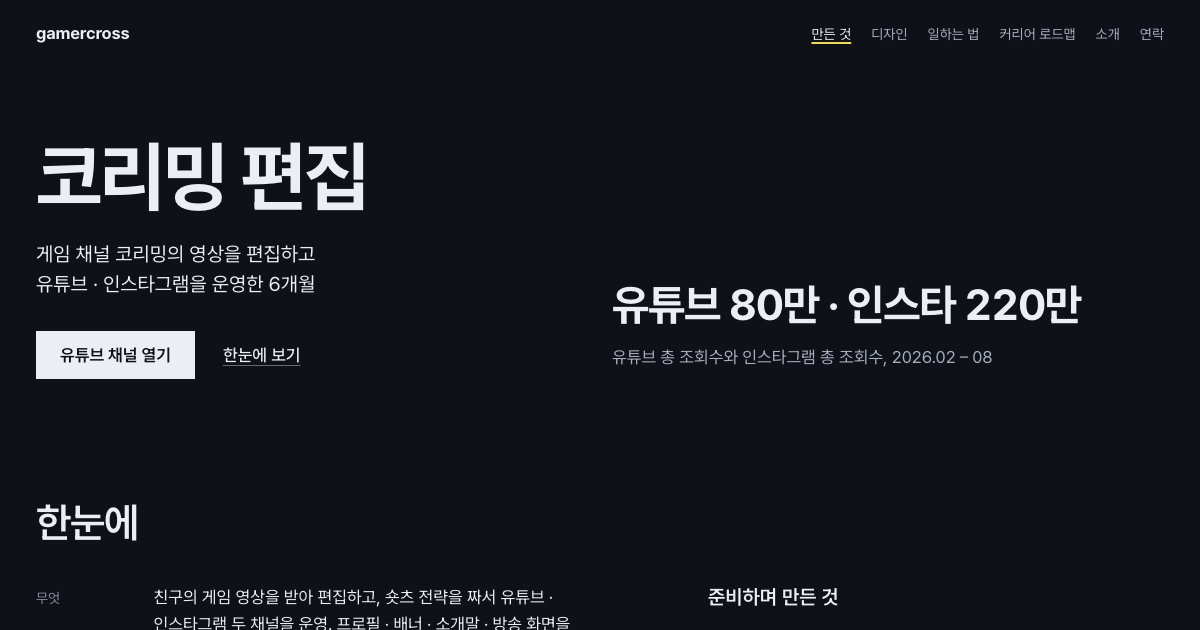
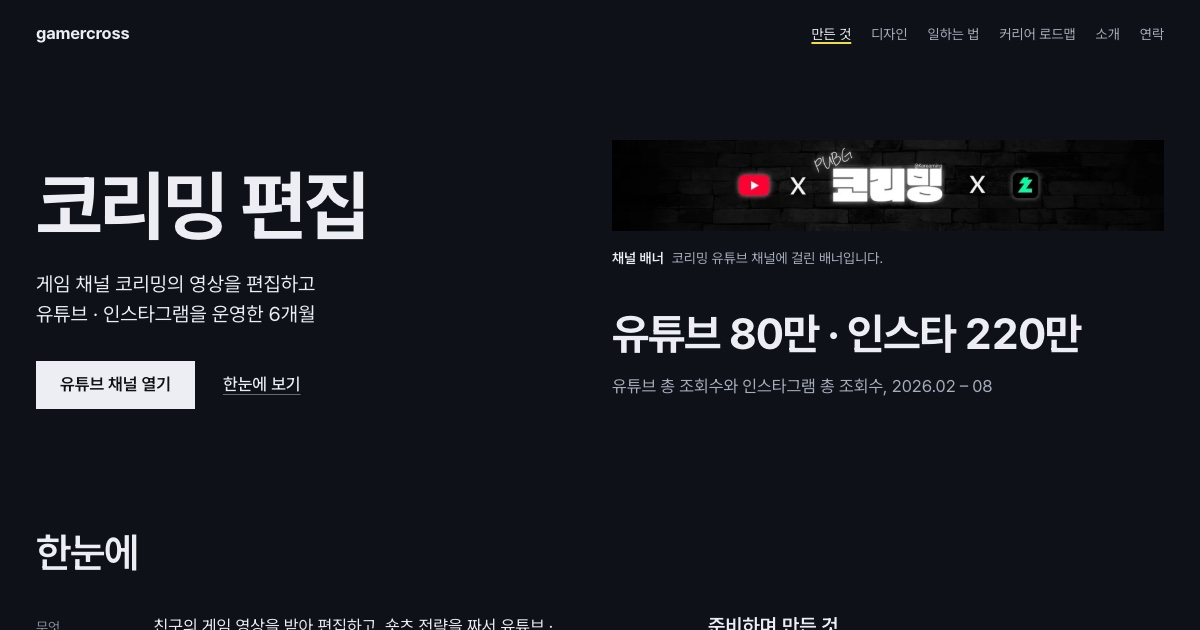
코리밍 쪽 머리에 채널 배너 (유튜브 채널에서 받은 그림, webp 960 · 1600)
- 큰 숫자 위에 배너 한 장, 판 · 테 · 그림자 없이, 첫 그림이라 fetchpriority=high
- '그림은 싣지 않았습니다' 줄을 '채널 배너만 실었습니다 …'로
- 공유 그림 다시 찍음

diff --git a/work/koreaming/index.html b/work/koreaming/index.html
@@ -14,7 +14,7 @@
 <meta property="og:image" content="https://gamercross.github.io/assets/img/og-koreaming.jpg">
 <meta property="og:image:width" content="1200">
 <meta property="og:image:height" content="630">
-<meta property="og:image:alt" content="코리밍 편집 쪽 첫 화면. 짙은 바탕에 흰 굵은 글자로 코리밍 편집, 오른쪽에 두 채널의 총 조회수 한 줄">
+<meta property="og:image:alt" content="코리밍 편집 쪽 첫 화면. 짙은 바탕에 흰 굵은 글자로 코리밍 편집, 오른쪽에 코리밍 채널 배너와 두 채널의 총 조회수 한 줄">
 <meta property="og:locale" content="ko_KR">
 <meta name="twitter:card" content="summary_large_image">
 <meta name="twitter:creator" content="@gamercross98">
@@ -56,6 +56,7 @@
       <div class="acts"><a class="btn" data-link-first="v-koreaming" href="#proof">채널 열기</a><a class="go" href="#glance">한눈에 보기</a></div>
     </div>
     <div class="tally">
+      <figure class="banner"><img src="/assets/img/koreaming-banner-1600.webp" srcset="/assets/img/koreaming-banner-960.webp 960w, /assets/img/koreaming-banner-1600.webp 1600w" sizes="(max-width: 1080px) 94vw, 50vw" width="1600" height="265" fetchpriority="high" decoding="async" alt="코리밍 채널 배너. 검은 벽돌 벽 위에 흰 굵은 글자 코리밍, 위에 손글씨 PUBG와 @Koreaming, 양옆에 유튜브 · 치지직 로고"><figcaption class="cap"><b>채널 배너</b>코리밍 유튜브 채널에 걸린 배너입니다.</figcaption></figure>
       <p class="num"><span class="nw">유튜브 80만 ·</span> <span class="nw">인스타 220만</span></p>
       <p class="sub">유튜브 총 조회수와 <span class="nw">인스타그램 총 조회수</span>, <span class="nw">2026.02 – 08</span></p>
     </div>
@@ -83,7 +84,7 @@
         <div><dt>갈래</dt><dd>강의 · 실전 매드무비 · 즐겜, 영상 갈래 셋</dd></div>
         <div><dt>세팅</dt><dd>방송 · 컴퓨터 · 편집 세팅</dd></div>
       </dl>
-      <p class="note">그림은 싣지 않았습니다. 영상과 썸네일에 친구의 얼굴이 나옵니다.</p>
+      <p class="note">그림은 채널 배너만 실었습니다. 영상과 썸네일은 친구의 얼굴이 나와 싣지 않았습니다.</p>
     </section>
   </div>
 </section>

diff --git a/assets/site.css b/assets/site.css
@@ -275,6 +275,8 @@ input, textarea { caret-color: var(--accent); }
 .p-hero .tally { grid-column: 7 / -1; padding-bottom: 8px; }
 .p-hero .num { font-size: clamp(30px, 3.6vw, 56px); font-weight: var(--weight-d); line-height: 1.1; letter-spacing: -0.03em; font-variant-numeric: tabular-nums; text-wrap: balance; }
 .p-hero .tally .sub { margin-top: 16px; color: var(--muted); max-width: 44ch; }
+.p-hero .tally .banner { margin-bottom: 40px; }
+.p-hero .tally .banner img { width: 100%; height: auto; background: var(--surface); }
 .glance .made { grid-column: 8 / -1; padding-top: 12px; }
 .glance .made h3 { font-size: var(--t-m); line-height: 1.3; font-weight: var(--weight-h); margin-bottom: 4px; }
 .glance .made .note { margin-top: 16px; color: var(--muted); font-size: var(--t-s); }
